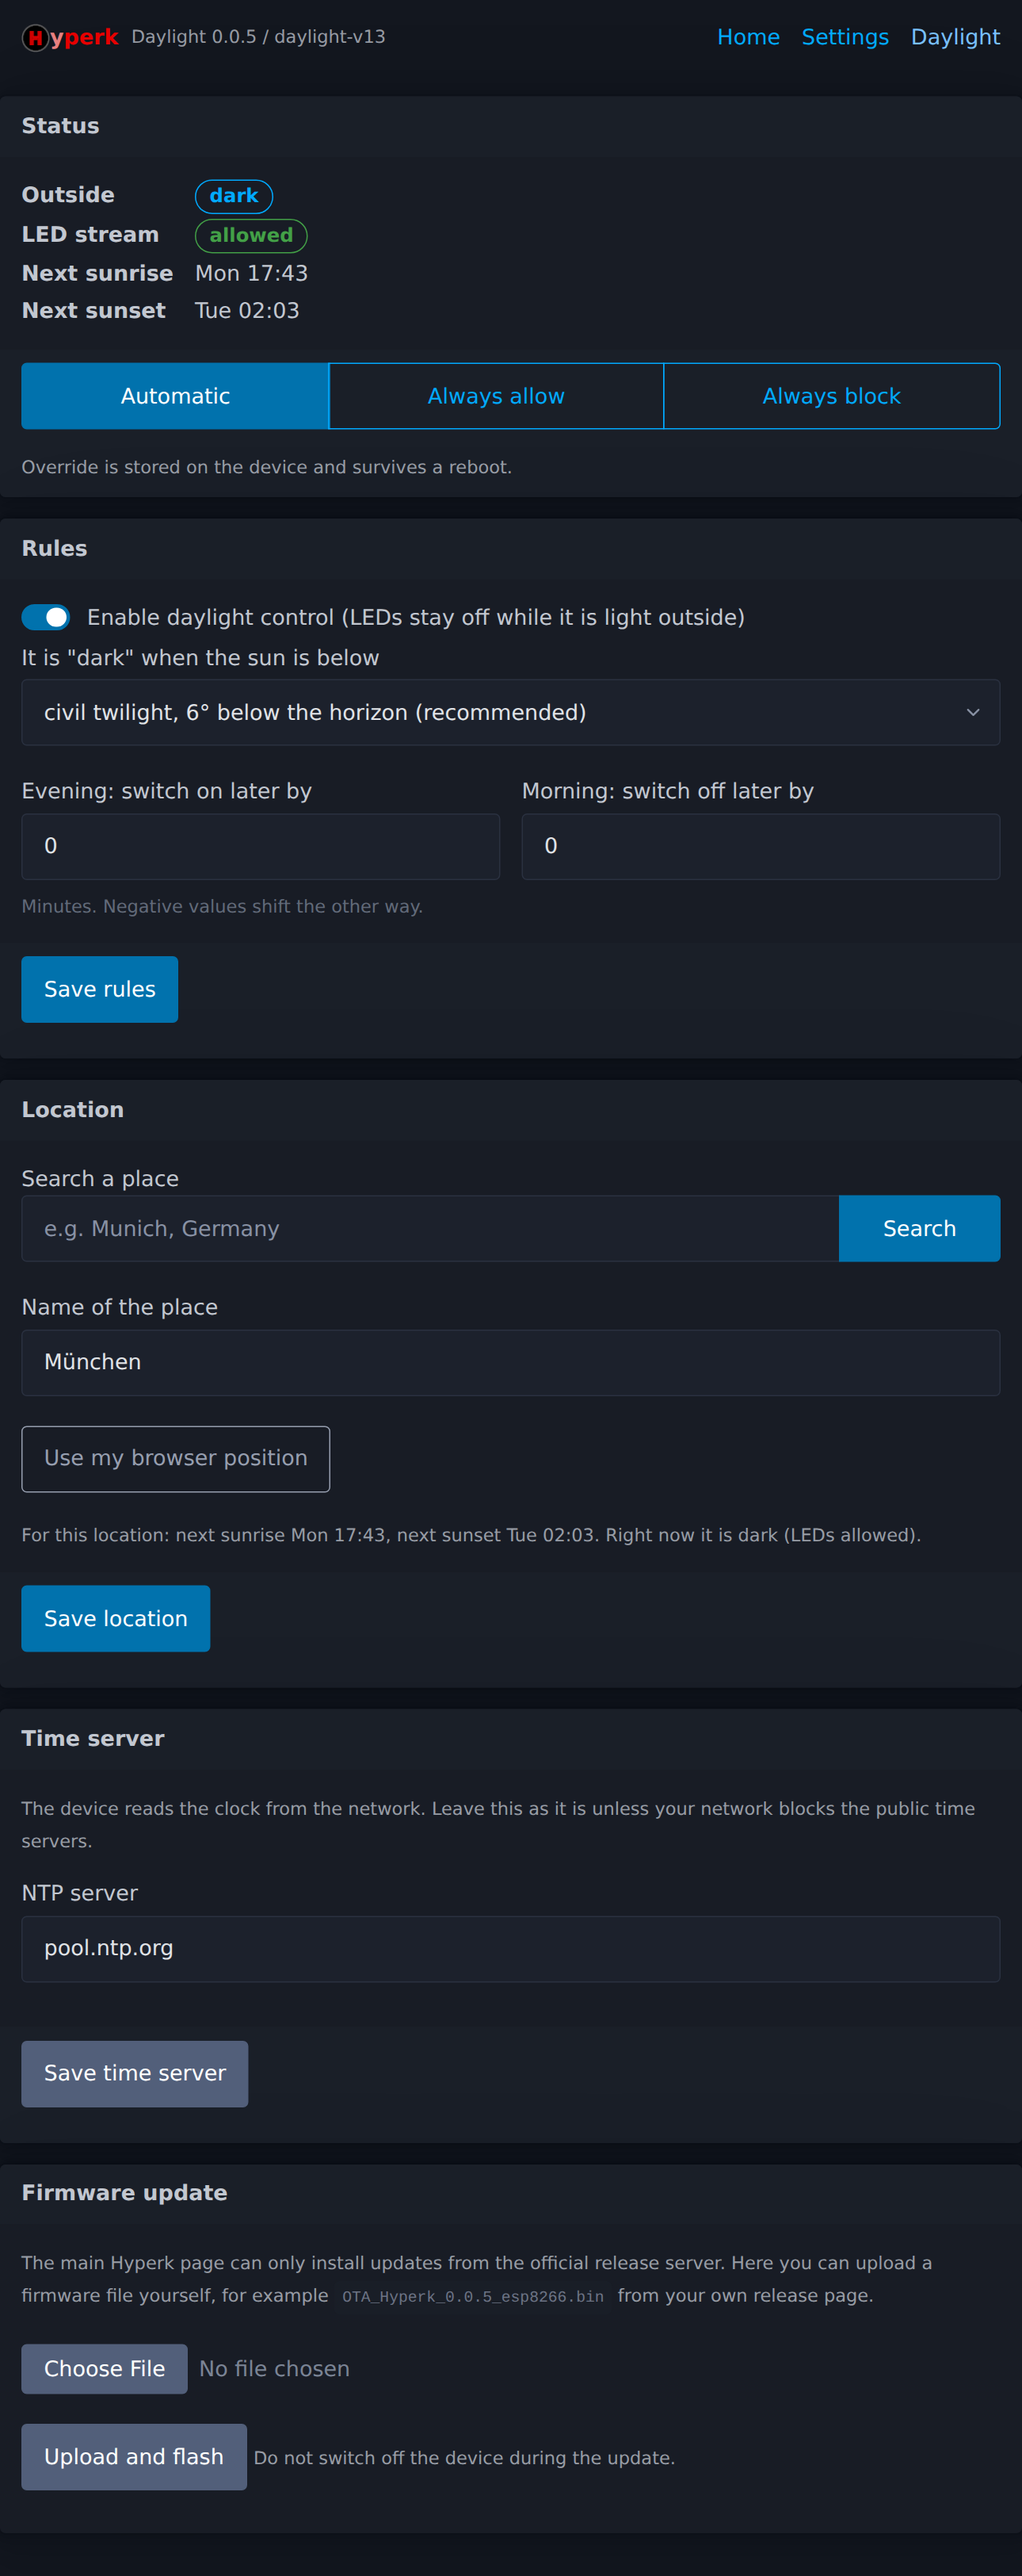
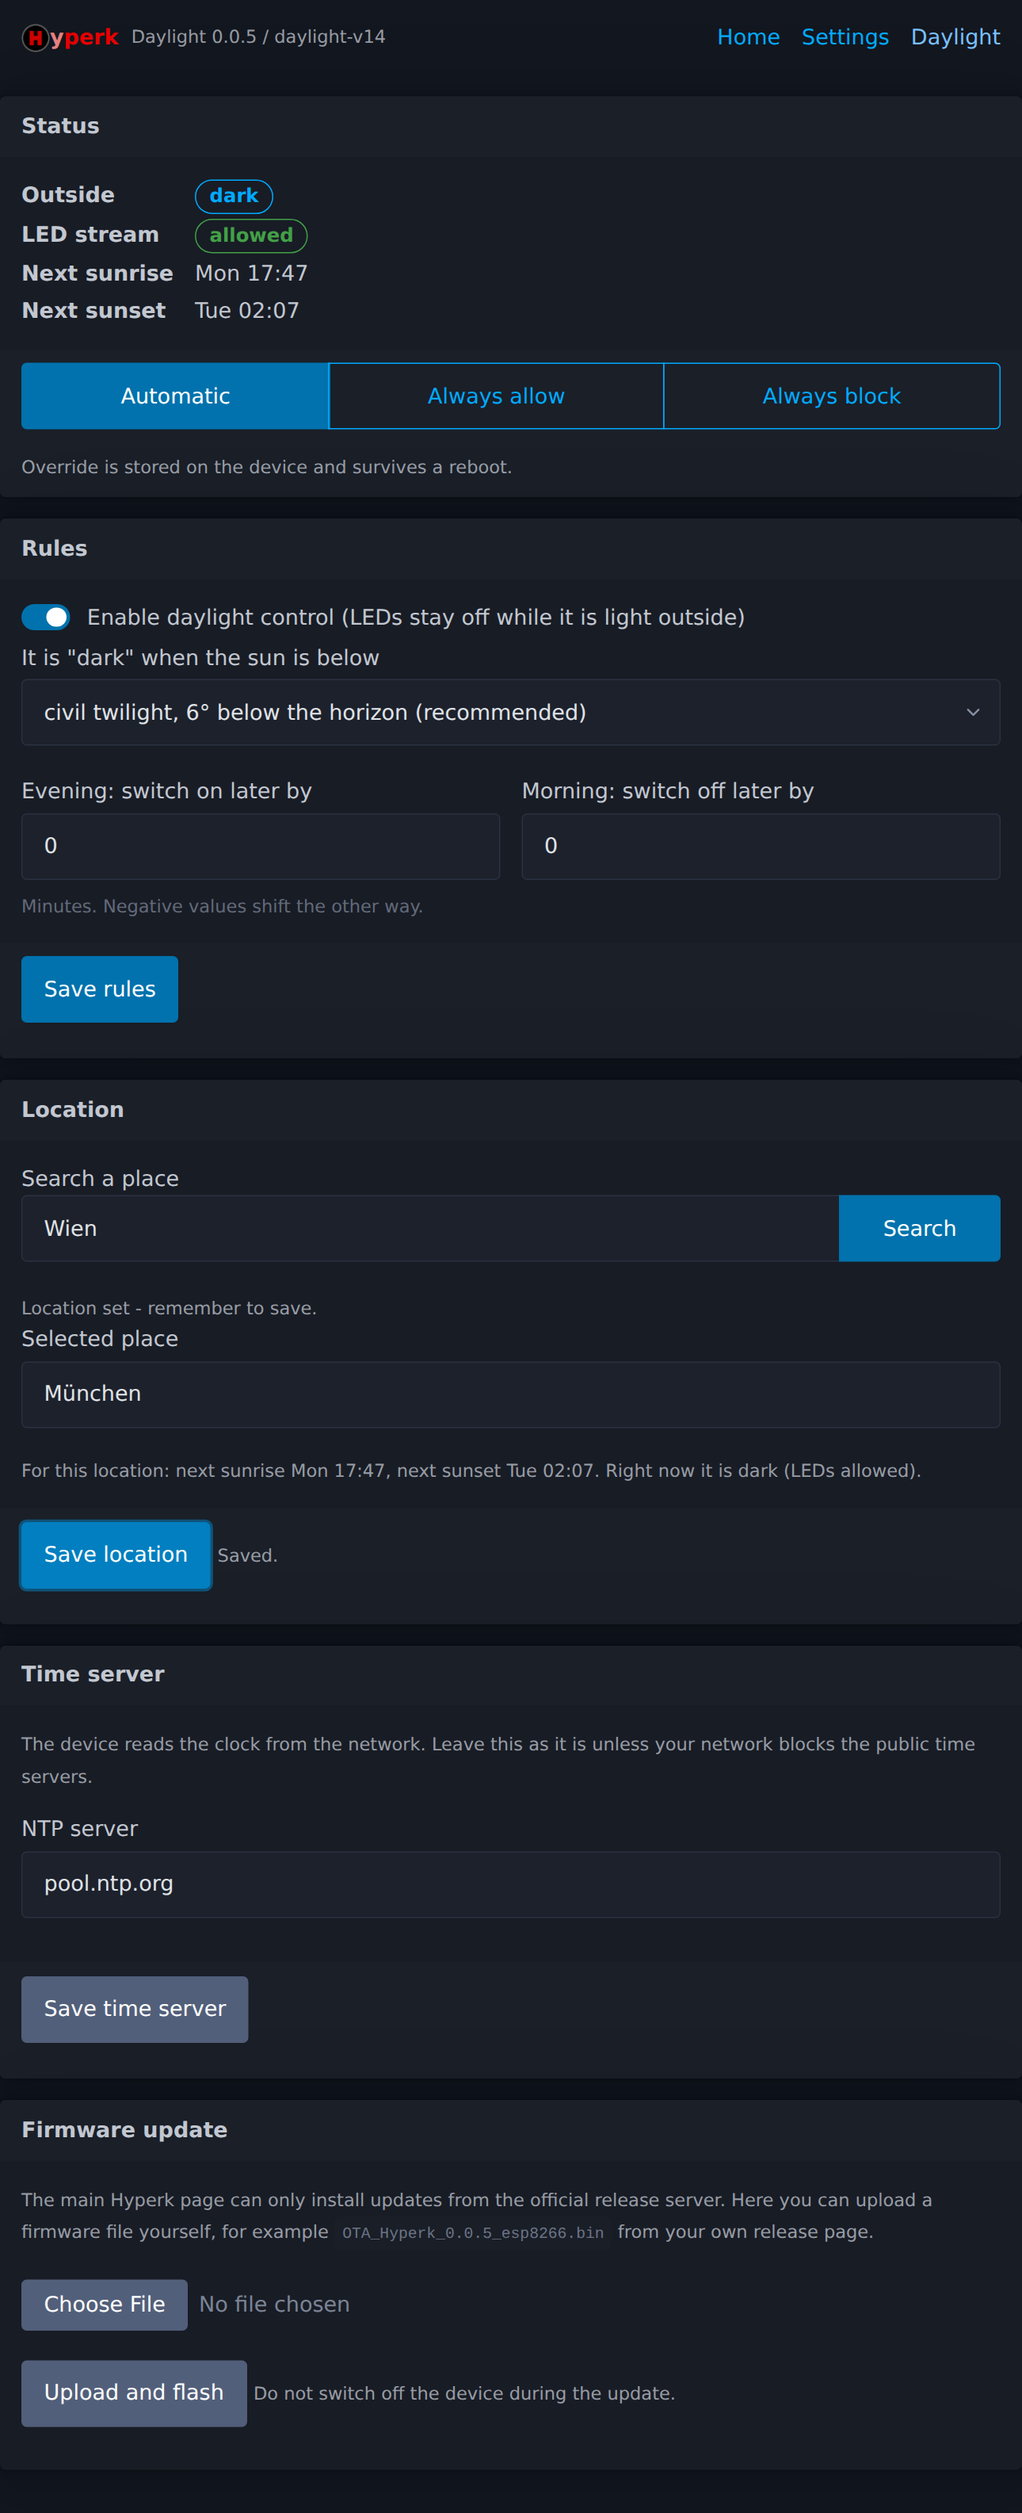
The place name comes from the search and stays put
Picking a place from the search now fills the name, and the field is read
only, so the label can never drift away from the coordinates it belongs to.

That left the button for the browser position without a name to use, and a
test showed it could never have worked anyway: browsers refuse to share a
position on a plain http page, which is all the device can serve. Only the
earlier tests against localhost passed, because browsers treat localhost as
secure. The button is gone.

A search hit that repeats itself, "Wien, Wien, Austria", is now shortened.

Claude-Session: https://claude.ai/code/session_01XptJV4HZ7RaU9kmjqBA5r9

diff --git a/include/daylight_page.h b/include/daylight_page.h
@@ -124,8 +124,7 @@ main.container{max-width:48rem}
   <small id="searchMsg" class="muted"></small>
 
   <input id="lat" type="hidden"><input id="lon" type="hidden">
-  <label id="labelName">Name of the place<input id="label" type="text" maxlength="60" placeholder="Home" oninput="paintName()"></label>
-  <button type="button" class="secondary outline" onclick="useBrowserPosition()">Use my browser position</button>
+  <label>Selected place<input id="label" type="text" readonly placeholder="none yet, search above"></label>
   <small id="preview" class="muted"></small>
   <footer>
     <button type="button" id="locBtn" onclick="saveLocation()">Save location</button>
@@ -191,7 +190,6 @@ function fillForm(c){
   for(var i=0;i<sel.options.length;i++){ if(Math.abs(parseFloat(sel.options[i].value)-c.altitude)<0.01){sel.selectedIndex=i;found=true;break;} }
   if(!found){ var o=document.createElement('option'); o.value=alt; o.textContent=alt+'° (custom)'; sel.appendChild(o); sel.value=alt; }
   $('setOffset').value=c.setOffset; $('riseOffset').value=c.riseOffset; $('ntp').value=c.ntp||'';
-  paintName();
 }
 
 function fetchStatus(q){
@@ -236,8 +234,10 @@ function saveRules(){
 
 function saveLocation(){
   var lat=parseFloat($('lat').value), lon=parseFloat($('lon').value);
-  if(isNaN(lat)||isNaN(lon)){ $('locMsg').textContent='Please pick a place first.'; return; }
-  if(!$('label').value.trim()){ $('locMsg').textContent='Please name the place.'; $('label').focus(); return; }
+  if(isNaN(lat)||isNaN(lon)||!$('label').value.trim()){
+    $('locMsg').textContent='Please search a place and pick it from the list.';
+    return;
+  }
   $('locMsg').textContent='Saving...';
   post({lat:lat, lon:lon, label:$('label').value}, $('locMsg'),'Saved.');
 }
@@ -267,19 +267,10 @@ function preview(){
 }
 
 function setLocation(lat,lon,name){
-  var la=Math.round(lat*1e6)/1e6, lo=Math.round(lon*1e6)/1e6;
-  $('lat').value=la; $('lon').value=lo;
-  if(name) $('label').value=name;
-  paintName();
+  $('lat').value=Math.round(lat*1e6)/1e6;
+  $('lon').value=Math.round(lon*1e6)/1e6;
+  $('label').value=name;
   preview();
-}
-
-function hasPlace(){ return !isNaN(parseFloat($('lat').value)) && !isNaN(parseFloat($('lon').value)); }
-
-function paintName(){
-  var needed=hasPlace();
-  $('label').required=needed;
-  $('labelName').firstChild.nodeValue=needed?'Name of the place':'Name of the place (optional)';
 }
 
 function doSearch(){
@@ -294,23 +285,17 @@ function doSearch(){
       $('searchMsg').textContent='Click a result to use it:';
       res.forEach(function(r){
         var li=document.createElement('li');
-        var parts=[r.name]; if(r.admin1) parts.push(r.admin1); if(r.country) parts.push(r.country);
+        var parts=[r.name];
+        if(r.admin1&&r.admin1!==r.name) parts.push(r.admin1);
+        if(r.country&&r.country!==r.name) parts.push(r.country);
         li.textContent=parts.join(', ')+'  ('+r.latitude.toFixed(4)+', '+r.longitude.toFixed(4)+')';
         li.onclick=function(){ setLocation(r.latitude,r.longitude,parts.join(', ')); list.innerHTML=''; $('searchMsg').textContent='Location set - remember to save.'; };
         list.appendChild(li);
       });
     })
-    .catch(function(){ $('searchMsg').textContent='Search unavailable (needs internet access from this browser). Paste coordinates instead.'; });
+    .catch(function(){ $('searchMsg').textContent='Search unavailable. This browser needs internet access to look up a place.'; });
 }
 $('search').addEventListener('keydown',function(e){ if(e.key==='Enter'){ e.preventDefault(); doSearch(); } });
-
-function useBrowserPosition(){
-  try{
-    if(!navigator.geolocation) throw new Error('n/a');
-    navigator.geolocation.getCurrentPosition(function(p){ setLocation(p.coords.latitude,p.coords.longitude,null); if(!$('label').value) $('label').focus(); },
-      function(){ $('preview').textContent='Browser refused to share the position (most browsers only allow it on https pages). Paste coordinates instead.'; },{timeout:10000});
-  }catch(e){ $('preview').textContent='Position not available in this browser. Paste coordinates instead.'; }
-}
 
 function uploadFirmware(){
   var f=$('fwFile').files[0];

diff --git a/readme.md b/readme.md
@@ -4,7 +4,7 @@
 
 The LED strip behind your TV is welcome at night and pointless at noon. This fork works out sunrise and sunset from coordinates you enter once, and lets the HyperHDR picture stream reach the LEDs only while it is dark outside. Everything else about Hyperk stays as it is.
 
-- Location by place name, or from the position the browser knows
+- Location by place name, looked up once in your browser
 - Choose when it counts as dark, from sunset down to astronomical twilight, and shift either edge by minutes
 - Settings page in the style of the existing interface, on port 8080, plus a firmware upload the stock interface does not offer
 - Falls back to normal behaviour whenever the time or the location is missing, so it cannot leave you in the dark
@@ -30,7 +30,7 @@ Open `http://hyperk.local:8080/`, or `http://<device-ip>:8080/`. It uses the sam
 | Card | What you do there |
 | :--- | :--- |
 | Status | See whether it is dark, whether the stream is allowed, and the next sunrise and sunset in your local time. Three buttons force the gate open or shut for testing. |
-| Location | Search a place by name, or take the position from the browser. Give the place a name, then save. A preview shows the resulting sun times before you save. |
+| Location | Search a place and pick it from the list, then save. The name comes from the search and cannot be edited, so it always matches the coordinates behind it. A preview shows the resulting sun times. |
 | Rules | Switch the whole feature on, pick when it counts as dark, and shift both edges by minutes. |
 | Time server | The NTP server the clock comes from. Only worth touching if your network blocks the public ones. |
 | Firmware update | Pick a `.bin` file and flash it. The stock interface on port 80 cannot do this, it only installs releases from the upstream project. |
